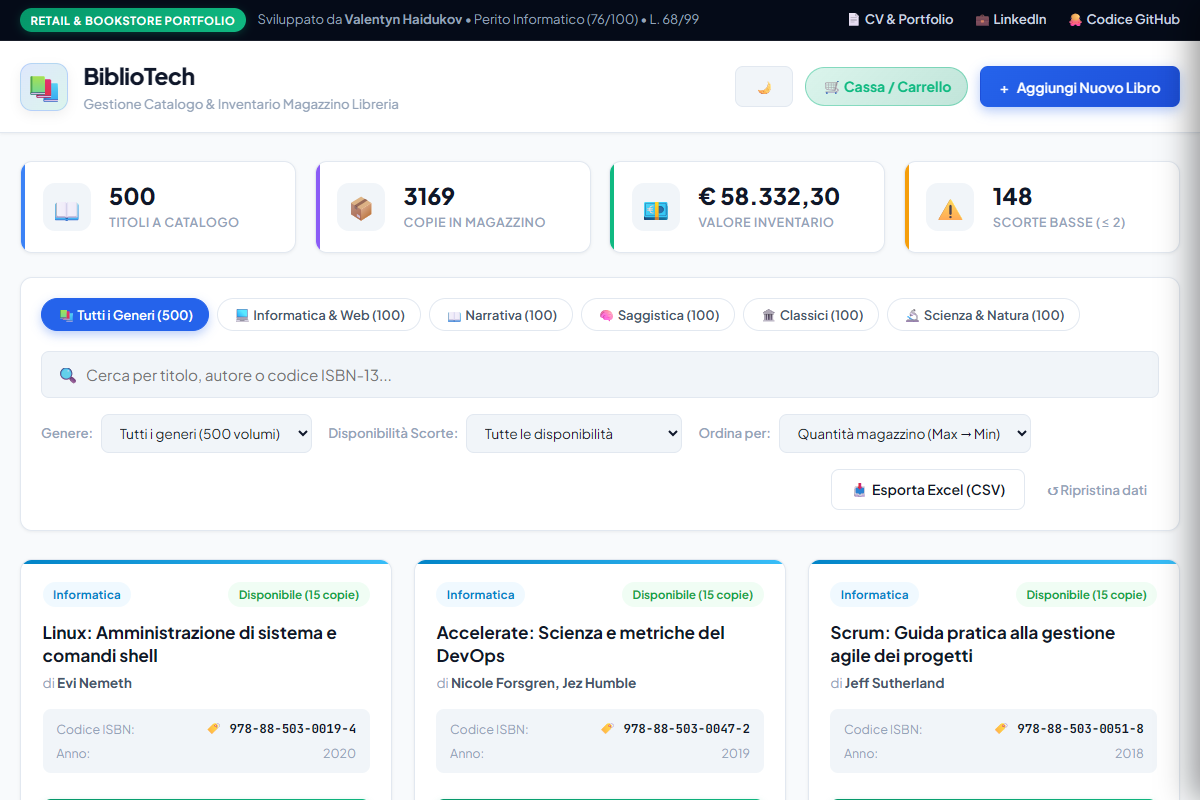
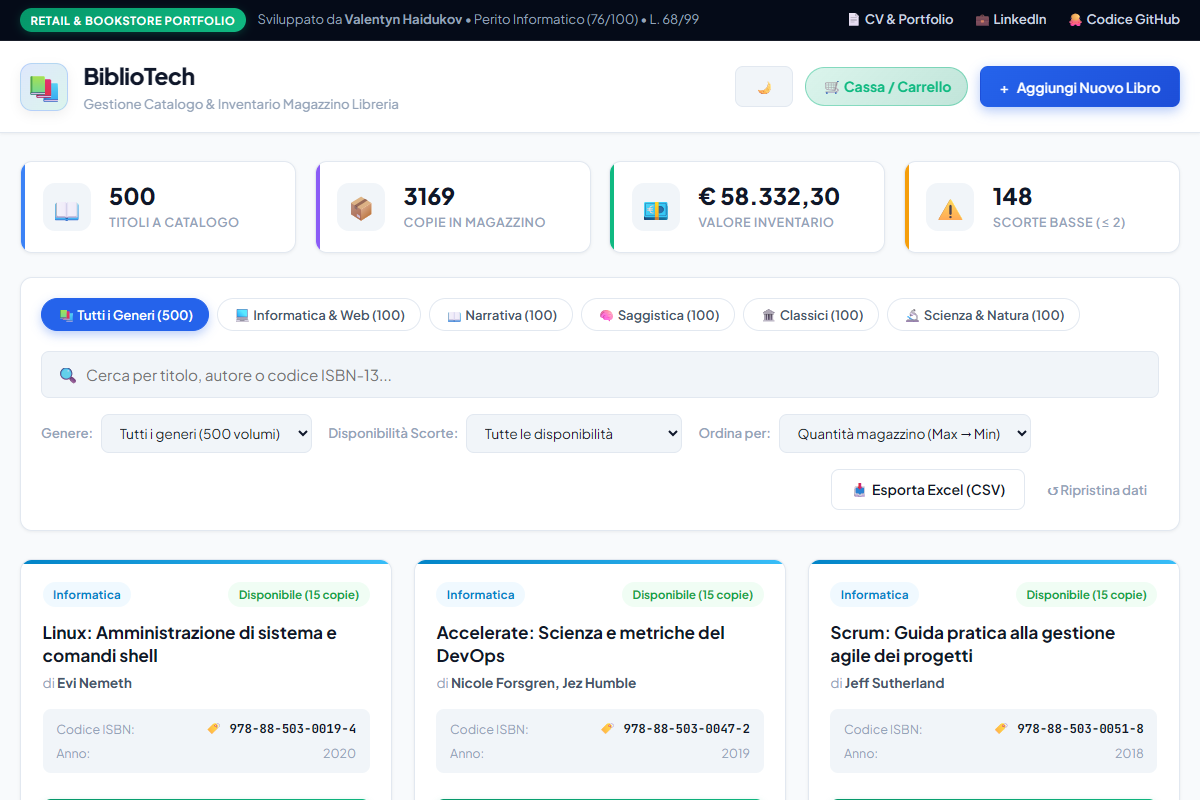
Add files via upload

Changed region(s): [[0.9867, 0.0312, 1.0, 1.0]]

diff --git a/app.js b/app.js
@@ -5209,16 +5209,16 @@ function setupCartListeners() {
   receiptOverlay.addEventListener("click", closeReceipt);
 }
 
-// Apertura / Chiusura Cassa
+// Apertura / Chiusura Cassa POS
 function openCart() {
-  cartDrawer.classList.remove("hidden");
-  cartOverlay.classList.remove("hidden");
+  cartDrawer.classList.add("open");
+  cartOverlay.classList.add("open");
   calculateCashChange();
 }
 
 function closeCart() {
-  cartDrawer.classList.add("hidden");
-  cartOverlay.classList.add("hidden");
+  cartDrawer.classList.remove("open");
+  cartOverlay.classList.remove("open");
 }
 
 // Totale Carrello Corrente
@@ -5612,15 +5612,15 @@ function renderGrid(bookList) {
 
       <div>
         <button class="card-buy-btn" onclick="addToCart('${book.id}')" ${isOutOfStock ? 'disabled' : ''}>
-          ${isOutOfStock ? '❌ Scorta Esaurita' : '🛒 Aggiungi alla Cassa'}
+          ${isOutOfStock ? '❌ Scorta Esaurita' : '🛒 Metti in Cassa (+)'}
         </button>
 
         <div class="book-footer">
           <div class="book-price">€ ${Number(book.price).toFixed(2)}</div>
           <div class="card-actions">
-            <button class="btn-icon" title="Riduci quantità (-1)" onclick="adjustStock('${book.id}', -1)">-</button>
-            <button class="btn-icon" title="Aumenta quantità (+1)" onclick="adjustStock('${book.id}', 1)">+</button>
-            <button class="btn-icon" title="Modifica dettagli" onclick="editBook('${book.id}')">✏</button>
+            <button class="btn-icon" title="Rimuovi dalla cassa (-1)" onclick="updateCartQty('${book.id}', -1)">-</button>
+            <button class="btn-icon btn-cart-plus" title="Metti in Cassa (+1)" onclick="addToCart('${book.id}')">+</button>
+            <button class="btn-icon" title="Modifica dettagli catalogo" onclick="editBook('${book.id}')">✏</button>
             <button class="btn-icon delete" title="Elimina libro" onclick="deleteBook('${book.id}')">🗑</button>
           </div>
         </div>

diff --git a/style.css b/style.css
@@ -997,14 +997,21 @@ body[data-theme="dark"] .btn-cart {
   box-shadow: none;
 }
 
-/* Overlay & Drawer Cassa */
+/* Overlay & Drawer Cassa POS (Bulletproof) */
 .cart-overlay {
   position: fixed;
   inset: 0;
-  background: rgba(15, 23, 42, 0.65);
-  backdrop-filter: blur(4px);
-  z-index: 1000;
-  transition: opacity 0.3s ease;
+  background: rgba(15, 23, 42, 0.75);
+  backdrop-filter: blur(5px);
+  z-index: 99998;
+  display: none;
+  opacity: 0;
+  transition: opacity 0.25s ease;
+}
+
+.cart-overlay.open {
+  display: block !important;
+  opacity: 1 !important;
 }
 
 .cart-drawer {
@@ -1012,21 +1019,36 @@ body[data-theme="dark"] .btn-cart {
   top: 0;
   right: 0;
   bottom: 0;
-  width: min(480px, 100vw);
-  background: var(--bg-card);
-  border-left: 1px solid var(--border-color);
-  box-shadow: -8px 0 32px rgba(0, 0, 0, 0.4);
+  width: min(500px, 100vw);
+  background: #0b1329 !important;
+  color: #f8fafc !important;
+  border-left: 2px solid #3b82f6;
+  box-shadow: -10px 0 45px rgba(0, 0, 0, 0.8);
   display: flex;
   flex-direction: column;
-  z-index: 1001;
-  transform: translateX(0);
+  z-index: 99999;
+  transform: translateX(100%);
   transition: transform 0.3s cubic-bezier(0.16, 1, 0.3, 1);
+  visibility: hidden;
 }
 
-.cart-drawer.hidden {
-  display: flex !important;
-  transform: translateX(100%);
-  pointer-events: none;
+.cart-drawer.open {
+  transform: translateX(0) !important;
+  visibility: visible !important;
+}
+
+.btn-cart-plus {
+  background: rgba(16, 185, 129, 0.2) !important;
+  border-color: rgba(16, 185, 129, 0.5) !important;
+  color: #10b981 !important;
+  font-weight: 800 !important;
+  font-size: 1.1rem !important;
+}
+
+.btn-cart-plus:hover {
+  background: #10b981 !important;
+  color: #ffffff !important;
+  border-color: #10b981 !important;
 }
 
 .cart-drawer-header {

diff --git a/index.html b/index.html
@@ -16,7 +16,7 @@
   <meta property="og:image:height" content="800">
   <meta property="og:image:type" content="image/png">
   
-  <link rel="stylesheet" href="style.css">
+  <link rel="stylesheet" href="style.css?v=3.5">
   <link rel="preconnect" href="https://fonts.googleapis.com">
   <link rel="preconnect" href="https://fonts.gstatic.com" crossorigin>
   <link href="https://fonts.googleapis.com/css2?family=Plus+Jakarta+Sans:wght@400;500;600;700;800&family=JetBrains+Mono:wght@500;700&display=swap" rel="stylesheet">
@@ -242,8 +242,8 @@
 
 
   <!-- Carrello & Cassa POS Slide-out Drawer -->
-  <div id="cartOverlay" class="cart-overlay hidden"></div>
-  <aside id="cartDrawer" class="cart-drawer hidden" aria-label="Cassa vendite e carrello">
+  <div id="cartOverlay" class="cart-overlay"></div>
+  <aside id="cartDrawer" class="cart-drawer" aria-label="Cassa vendite e carrello">
     <div class="cart-drawer-header">
       <div class="cart-drawer-title">
         <span class="cart-icon">🛒</span>
@@ -435,6 +435,6 @@
     </div>
   </footer>
 
-  <script src="app.js"></script>
+  <script src="app.js?v=3.5"></script>
 </body>
 </html>
